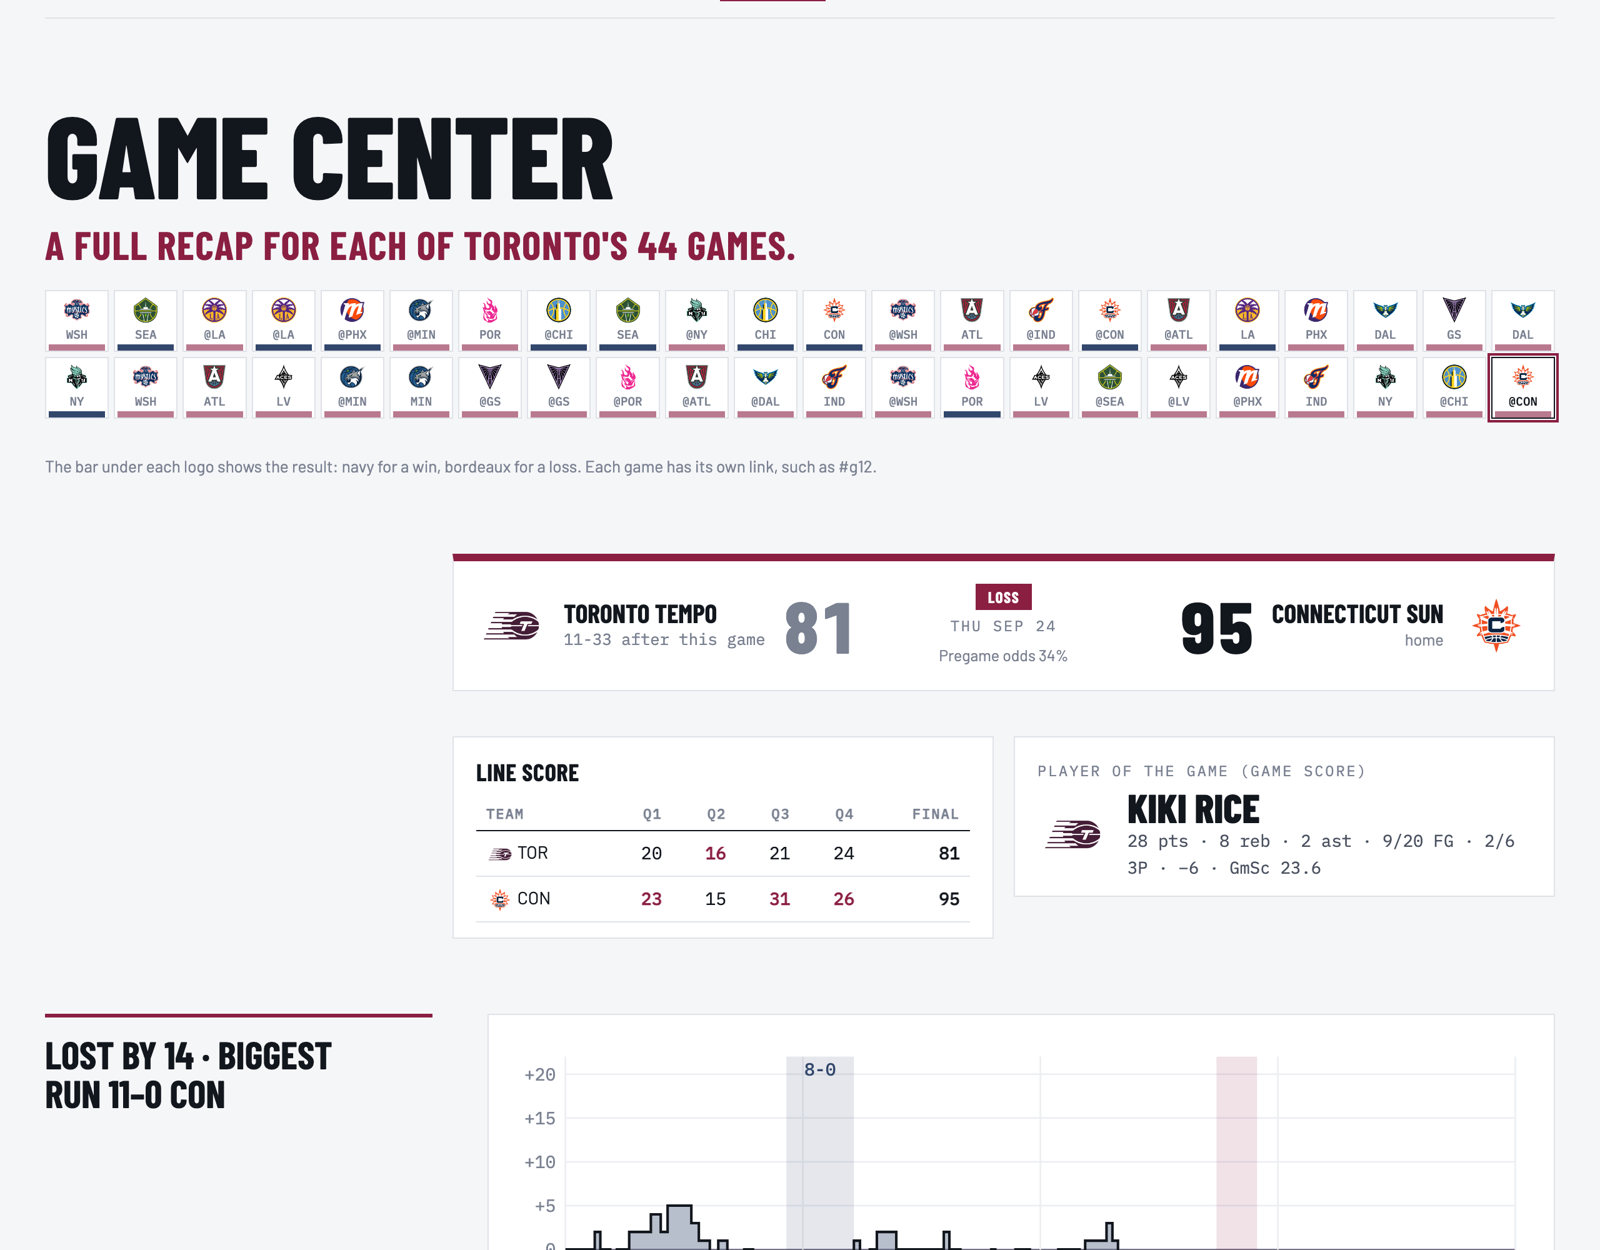
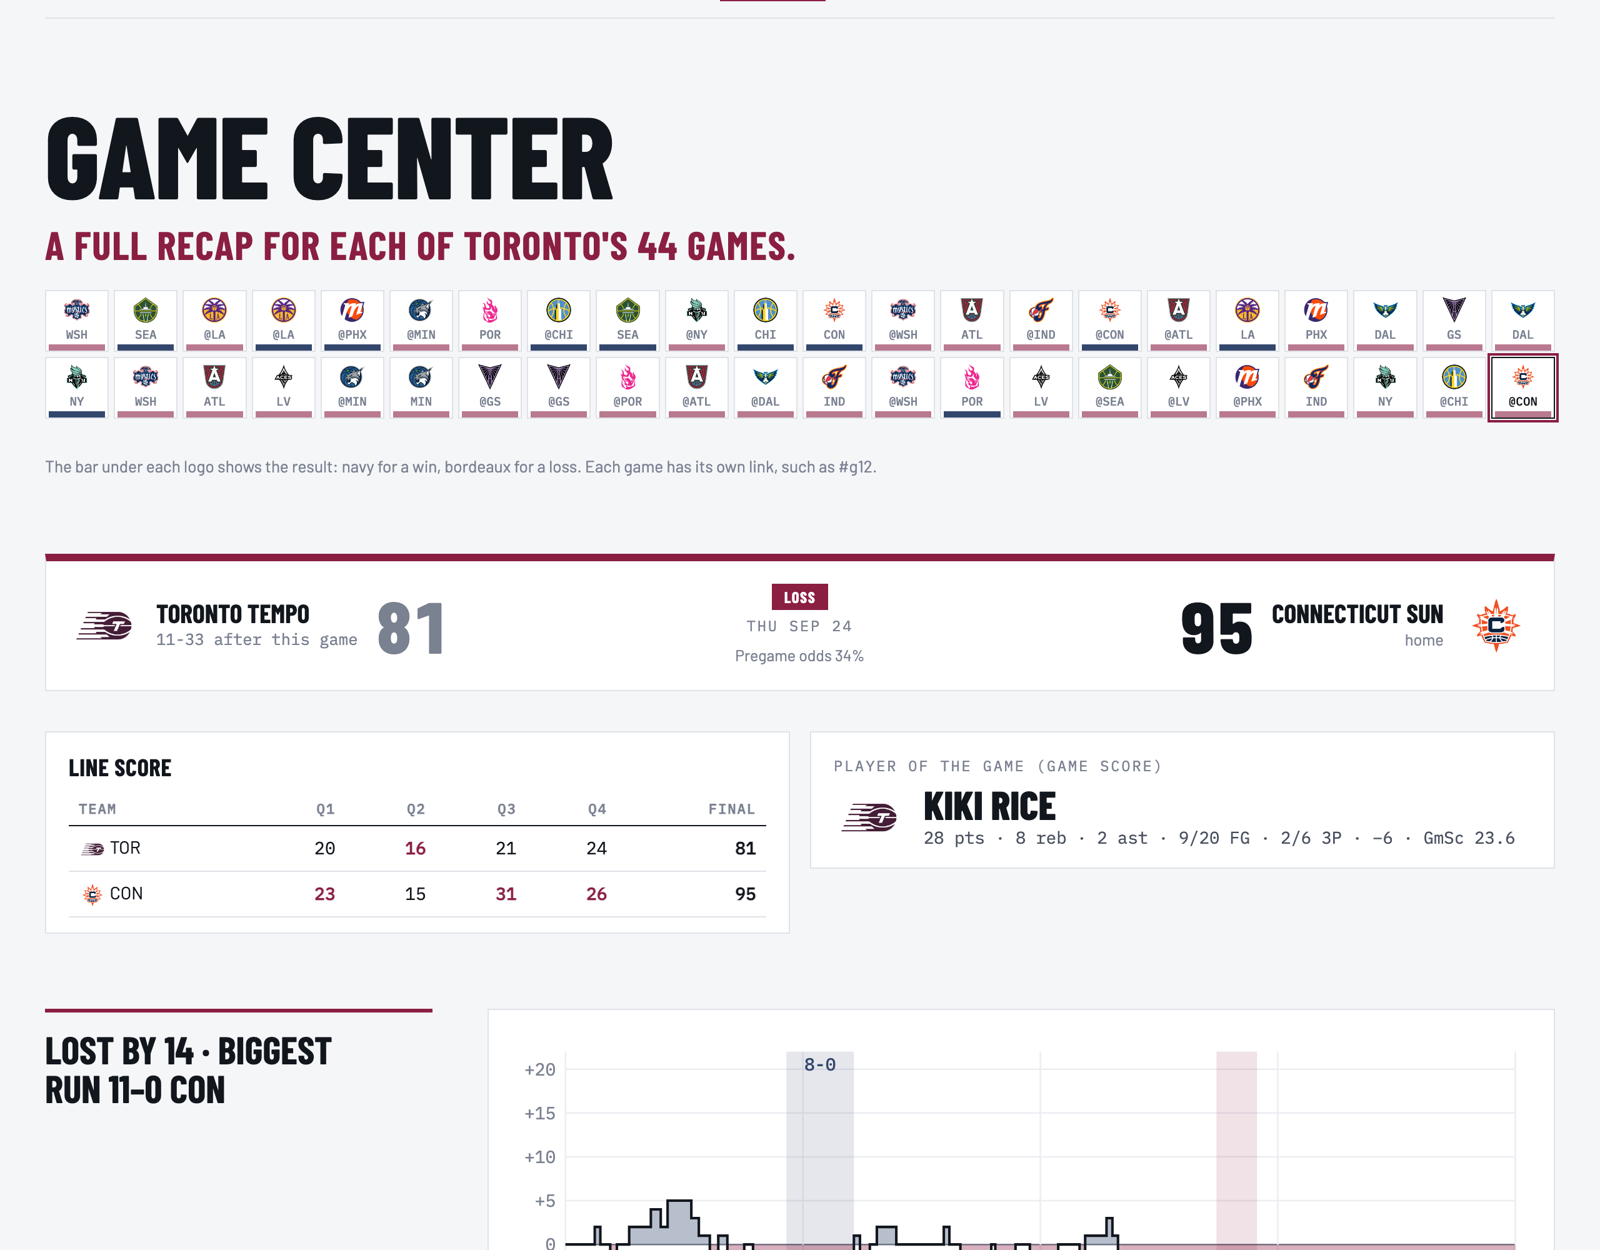
Let sections without a heading use the full width (Game Center scoreboard)

diff --git a/docs/game-center/index.html b/docs/game-center/index.html
@@ -8,7 +8,7 @@
 <link rel="icon" href="../assets/logos/tor_sm.png">
 <link rel="preconnect" href="https://fonts.googleapis.com">
 <link rel="stylesheet" href="https://fonts.googleapis.com/css2?family=Barlow+Condensed:wght@600;700;800&family=Barlow:wght@400;500;600&family=IBM+Plex+Mono:wght@400;500&display=swap">
-<link rel="stylesheet" href="../assets/site.css?v=5bdfe957">
+<link rel="stylesheet" href="../assets/site.css?v=085fd651">
 <style>
 .strip { display: grid; grid-template-columns: repeat(22, minmax(0, 1fr)); gap: 4px; }
 .strip button { border: 1px solid var(--rule); background: var(--panel); padding: 4px 2px 0; cursor: pointer; display: grid; justify-items: center; gap: 2px; font: 500 0.6rem var(--mono); color: var(--ink-3); position: relative; }

diff --git a/docs/draft-lab/index.html b/docs/draft-lab/index.html
@@ -8,7 +8,7 @@
 <link rel="icon" href="../assets/logos/tor_sm.png">
 <link rel="preconnect" href="https://fonts.googleapis.com">
 <link rel="stylesheet" href="https://fonts.googleapis.com/css2?family=Barlow+Condensed:wght@600;700;800&family=Barlow:wght@400;500;600&family=IBM+Plex+Mono:wght@400;500&display=swap">
-<link rel="stylesheet" href="../assets/site.css?v=5bdfe957">
+<link rel="stylesheet" href="../assets/site.css?v=085fd651">
 <style>
 .podium { display: grid; grid-template-columns: repeat(3, minmax(0, 1fr)); gap: 14px; }
 .pod { background: var(--panel); border: 1px solid var(--rule); border-top: 6px solid var(--tor); display: grid; grid-template-columns: 96px 1fr; gap: 14px; padding: 14px; align-items: center; min-width: 0; }

diff --git a/docs/expansion-class/index.html b/docs/expansion-class/index.html
@@ -8,7 +8,7 @@
 <link rel="icon" href="../assets/logos/tor_sm.png">
 <link rel="preconnect" href="https://fonts.googleapis.com">
 <link rel="stylesheet" href="https://fonts.googleapis.com/css2?family=Barlow+Condensed:wght@600;700;800&family=Barlow:wght@400;500;600&family=IBM+Plex+Mono:wght@400;500&display=swap">
-<link rel="stylesheet" href="../assets/site.css?v=5bdfe957">
+<link rel="stylesheet" href="../assets/site.css?v=085fd651">
 <link rel="preconnect" href="https://fonts.googleapis.com">
 <link rel="stylesheet" href="https://fonts.googleapis.com/css2?family=Barlow+Condensed:wght@600;700;800&family=Barlow:wght@400;500;600&family=IBM+Plex+Mono:wght@400;500&display=swap">
 <style>

diff --git a/docs/index.html b/docs/index.html
@@ -8,7 +8,7 @@
 <link rel="icon" href="assets/logos/tor_sm.png">
 <link rel="preconnect" href="https://fonts.googleapis.com">
 <link rel="stylesheet" href="https://fonts.googleapis.com/css2?family=Barlow+Condensed:wght@600;700;800&family=Barlow:wght@400;500;600&family=IBM+Plex+Mono:wght@400;500&display=swap">
-<link rel="stylesheet" href="assets/site.css?v=5bdfe957">
+<link rel="stylesheet" href="assets/site.css?v=085fd651">
 <style>
 .home-hero { display: grid; grid-template-columns: minmax(0, 1fr) auto; gap: 24px; align-items: center; }
 .home-hero img.mark { width: clamp(110px, 18vw, 200px); height: auto; background: var(--plate); border-radius: 16px; padding: 8px; }

diff --git a/docs/shot-lab/index.html b/docs/shot-lab/index.html
@@ -8,7 +8,7 @@
 <link rel="icon" href="../assets/logos/tor_sm.png">
 <link rel="preconnect" href="https://fonts.googleapis.com">
 <link rel="stylesheet" href="https://fonts.googleapis.com/css2?family=Barlow+Condensed:wght@600;700;800&family=Barlow:wght@400;500;600&family=IBM+Plex+Mono:wght@400;500&display=swap">
-<link rel="stylesheet" href="../assets/site.css?v=5bdfe957">
+<link rel="stylesheet" href="../assets/site.css?v=085fd651">
 <style>
 .picker { display: flex; gap: 6px; flex-wrap: wrap; }
 .picker button { font: 600 0.9rem var(--body); padding: 5px 10px; border: 1px solid var(--rule); background: var(--panel); color: var(--ink-2); cursor: pointer; }

diff --git a/docs/assets/site.css b/docs/assets/site.css
@@ -168,4 +168,9 @@ summary { cursor: pointer; color: var(--ink-2); font-family: var(--mono); font-s
   .section.wide > * { grid-column: 1; }
   .section.wide > header { grid-row: auto; position: static; max-width: 760px; margin-bottom: 20px; }
   .section.wide > header .lede { font-size: 1rem; }
+
+  /* a section with no heading (like Game Center's scoreboard) has no note, so it uses the full width */
+  .section:not(:has(> header)) { grid-template-columns: minmax(0, 1fr); }
+  .section:not(:has(> header)) > * { grid-column: 1; }
+  .section:not(:has(> header)) > :not(:first-child) { margin-top: 16px; }
 }

diff --git a/docs/rotation-lab/index.html b/docs/rotation-lab/index.html
@@ -8,7 +8,7 @@
 <link rel="icon" href="../assets/logos/tor_sm.png">
 <link rel="preconnect" href="https://fonts.googleapis.com">
 <link rel="stylesheet" href="https://fonts.googleapis.com/css2?family=Barlow+Condensed:wght@600;700;800&family=Barlow:wght@400;500;600&family=IBM+Plex+Mono:wght@400;500&display=swap">
-<link rel="stylesheet" href="../assets/site.css?v=5bdfe957">
+<link rel="stylesheet" href="../assets/site.css?v=085fd651">
 <style>
 .heat-wrap { overflow-x: auto; }
 .heat-wrap svg { min-width: 760px; }

diff --git a/docs/game-flow/index.html b/docs/game-flow/index.html
@@ -8,7 +8,7 @@
 <link rel="icon" href="../assets/logos/tor_sm.png">
 <link rel="preconnect" href="https://fonts.googleapis.com">
 <link rel="stylesheet" href="https://fonts.googleapis.com/css2?family=Barlow+Condensed:wght@600;700;800&family=Barlow:wght@400;500;600&family=IBM+Plex+Mono:wght@400;500&display=swap">
-<link rel="stylesheet" href="../assets/site.css?v=5bdfe957">
+<link rel="stylesheet" href="../assets/site.css?v=085fd651">
 <style>
 .gg-wrap { overflow-x: auto; }
 .gg-wrap svg { min-width: 700px; }
